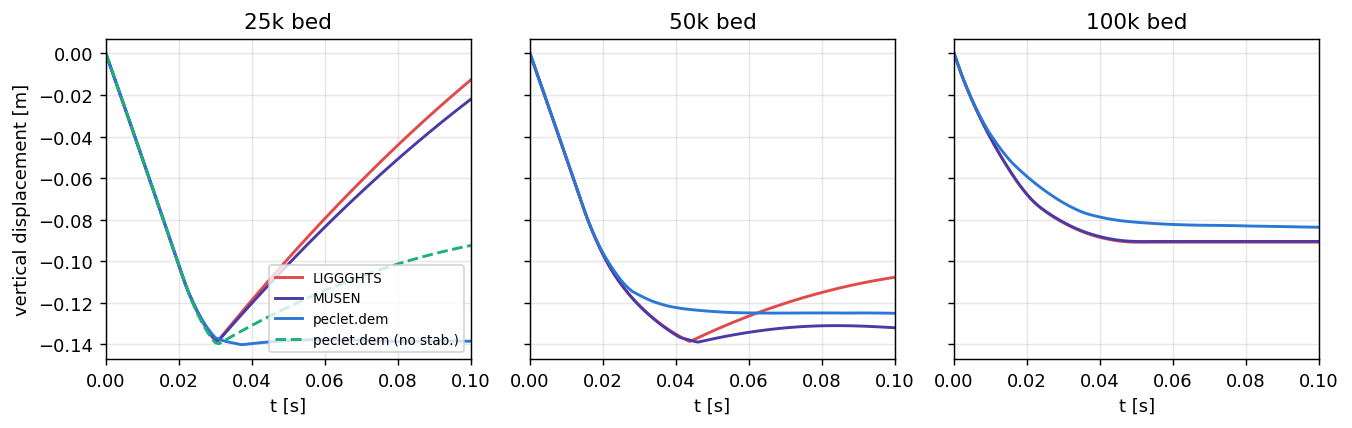
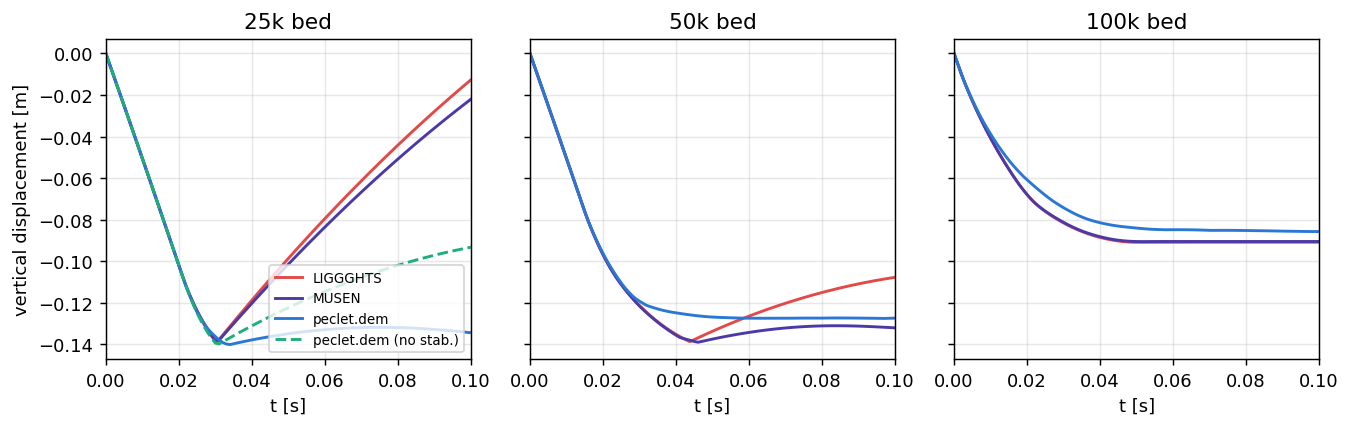
benchmarks/dem-bulk-dosta2024: drum period diagnosed — geometry fidelity, not contact physics
Overnight sensitivity study on the drum's ~1.4x period lag: Walton tangential
restitution beta (now implemented in dem 0f45e04 and validated to the
closed-form oblique-impact laws) is a NULL lever (the dense flowing layer's
contacts are normally sustained, so collisional beta never engages - the
references' tangential SPRING is a different object); bulk mu x1.5 is null;
wall mu 0.2->0.4 recovers the references' period, phase and second/third
cycles almost point-for-point and saturates (0.8 == 0.4). Root: the reference
codes rotate the benchmark's faceted 200-gon wall (3.1mm chords ~ 3 grain
radii) which a grid-sampled smooth SDF cannot represent. The entry now shows
the verbatim benchmark run (smooth wall, mu=0.2) as primary plus the measured
faceted-equivalent (mu=0.4) companion, clearly labelled; the rotating-frame
wall feature is logged in ISSUES.md as the clean future fix. Full matrix
re-run on the current solver (impacts, silos, both drums) - all other numbers
unchanged within run scatter.

diff --git a/ISSUES.md b/ISSUES.md
@@ -387,7 +387,13 @@ into the `peclet` suite. See [STYLE_GUIDE.md §8](STYLE_GUIDE.md): log it here
 
 
 ## DEM drum-mixing circulation period ~1.3-1.5x too long
-- **Status:** open
+- **Status:** diagnosed (geometry fidelity, 2026-07-21) — beta and bulk-mu are null levers; wall-mu
+  0.2->0.4 recovers period+cycles and saturates (0.8 == 0.4). The references rotate the benchmark's
+  FACETED 200-gon wall (3.1mm chords ~ 3 grain radii); a grid-sampled smooth SDF cannot represent
+  it, and a rotating faceted shape cannot be a static SDF + velocity field. Fix = a rotating-frame
+  wall (sample the SDF at the query point rotated by the accumulated wall angle; gradient rotated
+  back) — a contained narrowphase feature. Until then the benchmark entry shows verbatim (smooth,
+  mu=0.2) plus the measured faceted-equivalent (mu=0.4) companion.
 - **Package / area:** dem (friction / free-surface avalanching)
 - **Found in:** benchmarks/dem-bulk-dosta2024 (case 2)
 - **Observed:** with the cone-friction solver the Zone-2 oscillation reaches reference amplitude